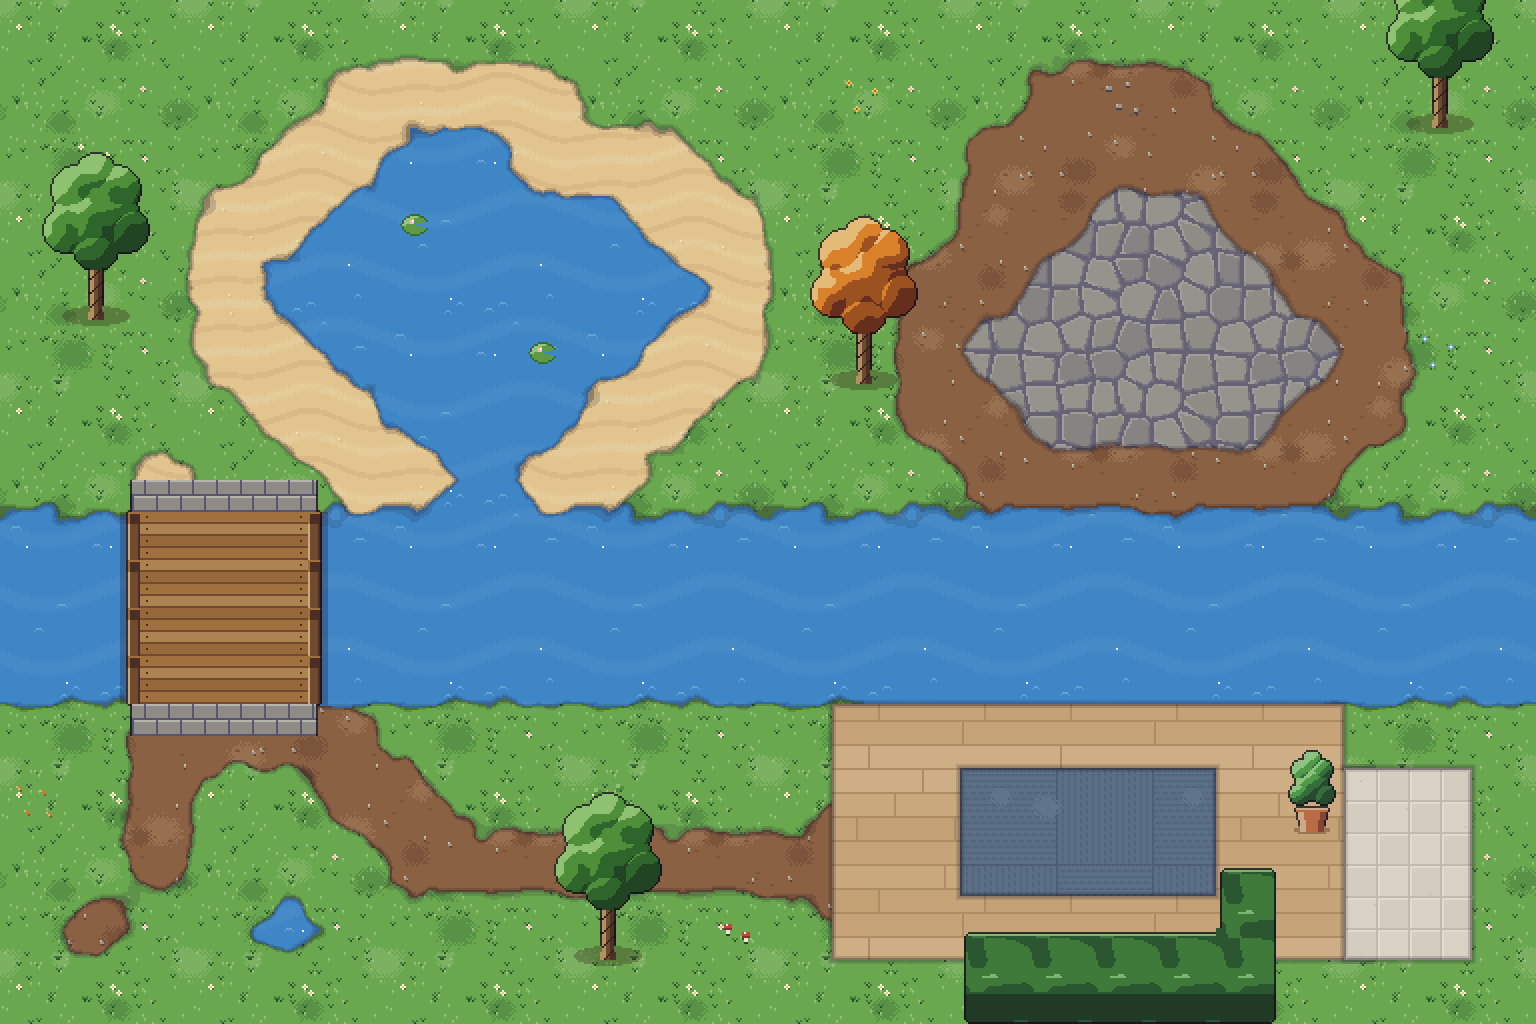
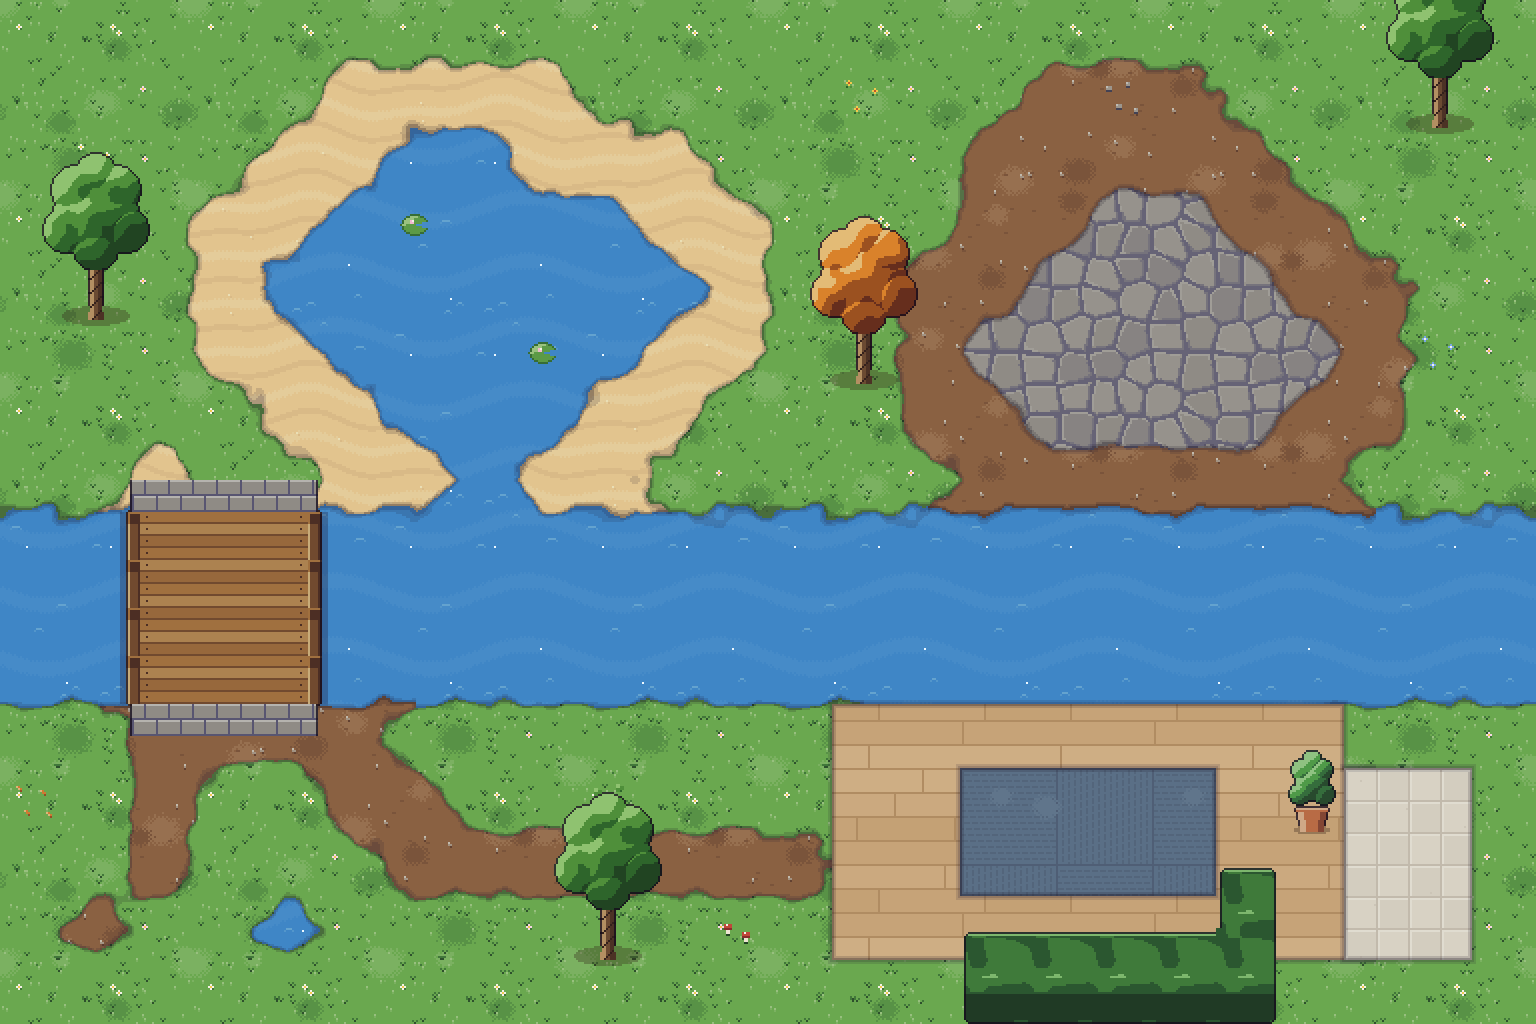
feat(game): reorder terrain drawing priority from carpet down to water

diff --git a/src/game/artContract.test.ts b/src/game/artContract.test.ts
@@ -281,7 +281,8 @@ describe('validateArtImage', () => {
 
 describe('terrain materials (#123)', () => {
   it('lists the eight block types in drawing priority, water lowest and carpet highest', () => {
-    expect(TERRAIN_MATERIALS).toEqual(['water', 'grass', 'dirt', 'sand', 'cobblestone', 'wood', 'tile', 'carpet']);
+    // Highest first, the order asked for: carpet, tile, wood, grass, cobblestone, dirt, sand, water.
+    expect(TERRAIN_MATERIALS).toEqual(['water', 'sand', 'dirt', 'cobblestone', 'grass', 'wood', 'tile', 'carpet']);
   });
 
   it('makes only water impassable', () => {
@@ -332,14 +333,23 @@ describe('terrain dual grid', () => {
       { material: 'water', mask: 15 },
       { material: 'sand', mask: 1 },
     ]);
-    // Nested: grass covers the corners where dirt and carpet are too, so each
+    // Nested: dirt covers the corners where grass and carpet are too, so each
     // edge blends over the material just below it instead of over water.
     expect(terrainCellLayers({ nw: 'carpet', ne: 'dirt', sw: 'grass', se: 'water' })).toEqual([
       { material: 'water', mask: 15 },
-      { material: 'grass', mask: 1 | 2 | 4 },
-      { material: 'dirt', mask: 1 | 2 },
+      { material: 'dirt', mask: 1 | 2 | 4 },
+      { material: 'grass', mask: 1 | 4 },
       { material: 'carpet', mask: 1 },
     ]);
+  });
+
+  it('draws grass over cobblestone, dirt and sand where they meet', () => {
+    for (const low of ['cobblestone', 'dirt', 'sand'] as const) {
+      expect(terrainCellLayers({ nw: 'grass', ne: low, sw: low, se: low }), low).toEqual([
+        { material: low, mask: 15 },
+        { material: 'grass', mask: 1 },
+      ]);
+    }
   });
 
   it('draws nothing for a corner without terrain (void), so the materials around it edge over the background', () => {
@@ -371,7 +381,7 @@ describe('terrain dual grid', () => {
     expect(TERRAIN_TILESET.columns).toBe(16);
     expect(TERRAIN_TILESET.rows).toBe(TERRAIN_MATERIALS.length * 9 + 1);
     expect(terrainTileIndex('water', 15, 0)).toBe(15);
-    expect(terrainTileIndex('grass', 1, 0)).toBe(9 * 16 + 1);
+    expect(terrainTileIndex('sand', 1, 0)).toBe(9 * 16 + 1);
     expect(terrainTileIndex('carpet', 15, 8)).toBe((7 * 9 + 8) * 16 + 15);
     expect(terrainDecalIndex(TERRAIN_DECALS[0]!)).toBe(TERRAIN_MATERIALS.length * 9 * 16);
     expect(TERRAIN_DECALS.length).toBeLessThanOrEqual(16);

diff --git a/src/components/TerrainPalette.test.tsx b/src/components/TerrainPalette.test.tsx
@@ -12,10 +12,11 @@ function noPreview(): ArtPreviewCache {
   return { sheet: vi.fn(async () => null) };
 }
 
-const NAMES = ['Agua', 'Césped', 'Tierra', 'Arena', 'Empedrado', 'Madera', 'Baldosa', 'Moqueta', 'Vacío'];
+/** Highest drawing priority first, the void eraser last. */
+const NAMES = ['Moqueta', 'Baldosa', 'Madera', 'Césped', 'Empedrado', 'Tierra', 'Arena', 'Agua', 'Vacío'];
 
 describe('TerrainPalette', () => {
-  it('offers every floor by its Spanish name, then the void eraser, none pressed until one is picked', () => {
+  it('offers every floor by its Spanish name from the highest drawing priority down, then the void eraser, none pressed until one is picked', () => {
     render(<TerrainPalette value={null} onPick={() => {}} floors={catalog.floor} preview={noPreview()} />);
 
     const group = screen.getByRole('group', { name: 'Suelos' });

diff --git a/src/components/TerrainPalette.tsx b/src/components/TerrainPalette.tsx
@@ -26,8 +26,8 @@ export const TERRAIN_MATERIAL_LABELS: Readonly<Record<LayoutMaterial, string>> =
   carpet: 'Moqueta',
 };
 
-/** Floors in drawing order, the eraser last. */
-const PALETTE_ORDER: readonly LayoutMaterial[] = [...LAYOUT_MATERIALS.filter((material) => material !== 'void'), 'void'];
+/** Floors from the highest drawing priority down; void, the lowest, is the eraser and comes last. */
+const PALETTE_ORDER: readonly LayoutMaterial[] = [...LAYOUT_MATERIALS].reverse();
 
 /** A corner of the 96px floor motif at 1:1: enough to read the texture, small enough for a grid. */
 const THUMBNAIL: PreviewFrame = { x: 0, y: 0, width: 48, height: 48 };

diff --git a/src/game/officeLayout.ts b/src/game/officeLayout.ts
@@ -50,7 +50,7 @@ export const BLOCK_TILES = MAP_BLOCK_TILES;
  * nothing over a black background, and never walkable. It has no art of its
  * own, so it is not a material of the art contract.
  */
-export const LAYOUT_MATERIALS = ['void', 'water', 'grass', 'dirt', 'sand', 'cobblestone', 'wood', 'tile', 'carpet'] as const;
+export const LAYOUT_MATERIALS = ['void', 'water', 'sand', 'dirt', 'cobblestone', 'grass', 'wood', 'tile', 'carpet'] as const;
 export type LayoutMaterial = (typeof LAYOUT_MATERIALS)[number];
 
 /** `TERRAIN_WALKABLE` of artContract.ts plus void: void and water are the terrain nobody walks on. */

diff --git a/src/game/artContract.ts b/src/game/artContract.ts
@@ -352,7 +352,7 @@ export const WALL: WallSpec = {
  * later one is drawn over the earlier one's edge. Water is the lowest, so every
  * shore is the land's edge over the water, and carpet the highest.
  */
-export const TERRAIN_MATERIALS = ['water', 'grass', 'dirt', 'sand', 'cobblestone', 'wood', 'tile', 'carpet'] as const;
+export const TERRAIN_MATERIALS = ['water', 'sand', 'dirt', 'cobblestone', 'grass', 'wood', 'tile', 'carpet'] as const;
 export type TerrainMaterial = (typeof TERRAIN_MATERIALS)[number];
 
 /** Water is solid for the client and the server alike; every other material is walkable. */

diff --git a/src/game/terrainRender.ts b/src/game/terrainRender.ts
@@ -29,10 +29,10 @@ export const VOID_COLOR = 0x000000;
 export const TERRAIN_FLAT_COLORS: Readonly<Record<LayoutMaterial, number>> = {
   void: VOID_COLOR,
   water: 0x3f78c4,
-  grass: 0x5d9b4c,
-  dirt: 0x8d6a47,
   sand: 0xd9c48c,
+  dirt: 0x8d6a47,
   cobblestone: 0x8c9096,
+  grass: 0x5d9b4c,
   wood: 0xa4723f,
   tile: 0xc5c9cf,
   carpet: 0x7b4f8c,

diff --git a/docs/map-editor.md b/docs/map-editor.md
@@ -18,7 +18,7 @@ New offices start as a black void with one central wood block, the entrance. Adm
 | Office block | 9 × 9 tiles, 288 × 288 px; all 81 tiles share the block's material |
 | Spawn | Tile `(94, 67)`, the world's center, in central block index `157` (column 11, row 8 counting from 1); it stays wood: incompatible saved overrides are ignored at startup, and edits cannot change it |
 | Void | Material `void`: no terrain. Nonwalkable exactly like water. Drawn as nothing over a black background (`VOID_COLOR`), on the map and the minimap, and outside the world too. Next to void a floor ends on its own edge; no water is drawn under it |
-| Floors | Water, grass, dirt, sand, cobblestone, wood, tile and carpet; water is a normal floor and stays nonwalkable |
+| Floors | Carpet, tile, wood, grass, cobblestone, dirt, sand and water, from the highest drawing priority down (where two meet, the higher one is drawn over the lower one's edge; the palette lists them in this order, then the void eraser); water is a normal floor and stays nonwalkable |
 | Borders | No displaced/jittered block lookup. The art pack's dual-grid transitions and intentional half-tile rendering origin remain |
 | Default | Void everywhere but the entrance; no ground overrides, decals, walls, hedges, props, chairs, labels, or fallback rooms |
 

diff --git a/docs/art/contract.md b/docs/art/contract.md
@@ -40,7 +40,7 @@ The office's facing order (`FACINGS` in `officeProtocol.ts`: `down, up, left, ri
 
 ## Terrain (#123)
 
-The terrain is a map of materials, one per tile. Eight materials exist, listed in `TERRAIN_MATERIALS` in drawing priority: `water, grass, dirt, sand, cobblestone, wood, tile, carpet`. Where two meet, the later one is drawn over the earlier one's edge, so every shore is the land's edge over the water. `TERRAIN_WALKABLE` makes water the only impassable material. Each material is the floor piece of the same name (`terrainFloorPieceId`, for example `floor-cobblestone`), cut into transition tiles.
+The terrain is a map of materials, one per tile. Eight materials exist, listed in `TERRAIN_MATERIALS` in drawing priority: `water, sand, dirt, cobblestone, grass, wood, tile, carpet`. Where two meet, the later one is drawn over the earlier one's edge, so every shore is the land's edge over the water. `TERRAIN_WALKABLE` makes water the only impassable material. Each material is the floor piece of the same name (`terrainFloorPieceId`, for example `floor-cobblestone`), cut into transition tiles.
 
 ### Dual grid
 
